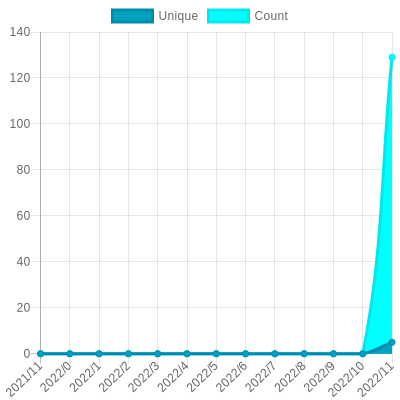
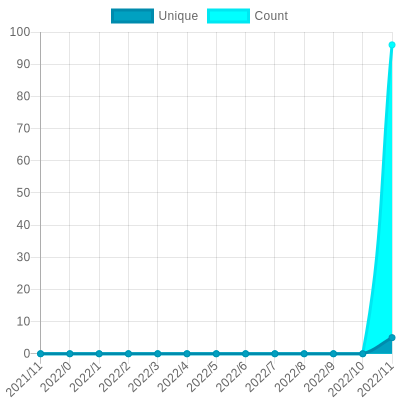
Update views

diff --git a/readme/437337990/year.md b/readme/437337990/year.md
@@ -26,7 +26,7 @@
 			<code>5</code>
 		</td>
 		<td>
-			<code>129</code>
+			<code>96</code>
 		</td>
 	</tr>
 	<tr>
@@ -164,7 +164,7 @@
 </table>
 
 </details>
-<small><i>Last updated on 2021/12/27 1:02 AM UTC</i></small>
+<small><i>Last updated on 2021/12/27 6:23 AM UTC</i></small>
 
 ## ✂Copy and 📋 Paste
 ### SVG Badge

diff --git a/README.md b/README.md
@@ -53,7 +53,7 @@ The project created and maintained by [gayanvoice](https://github.com/gayanvoice
 	</tr>
 </table>
 
-<small><i>Last updated on 2021/12/27 1:02 AM UTC</i></small>
+<small><i>Last updated on 2021/12/27 6:23 AM UTC</i></small>
 
 ## ✂Copy and 📋 Paste
 ### Total Views Badge

diff --git a/readme/268832845/year.md b/readme/268832845/year.md
@@ -164,7 +164,7 @@
 </table>
 
 </details>
-<small><i>Last updated on 2021/12/27 1:02 AM UTC</i></small>
+<small><i>Last updated on 2021/12/27 6:23 AM UTC</i></small>
 
 ## ✂Copy and 📋 Paste
 ### SVG Badge
